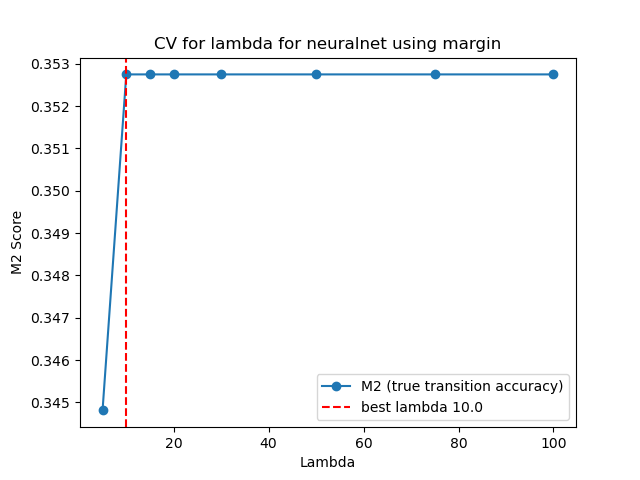
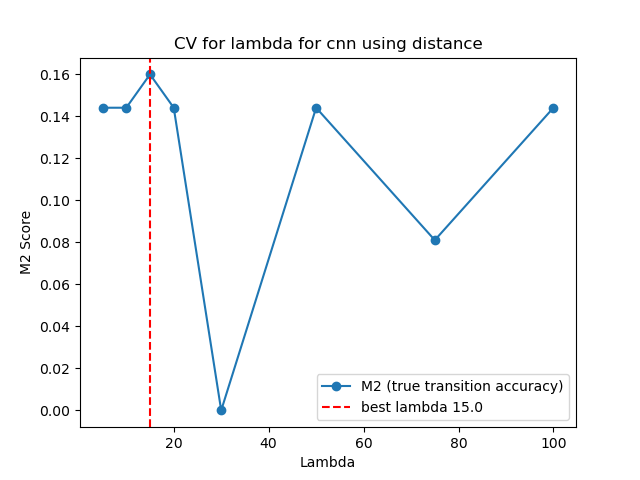
changes to cnn

diff --git a/supervised_learning.py b/supervised_learning.py
@@ -234,7 +234,11 @@ def print_results(preds_train, supervised_df, y_train, preds, y_test, cfg_sup):
 def CV_for_lambda(current_regime, X, y, model_type):
     n = len(X)
     cutoff = n // 2
-    X = X.iloc[:cutoff]
+    if model_type == "cnn":
+        X = X[:cutoff]
+    else:
+        X = X.iloc[:cutoff]
+        
     y = y.iloc[:cutoff]
     current_regime = current_regime.iloc[:cutoff]
 
@@ -245,10 +249,14 @@ def CV_for_lambda(current_regime, X, y, model_type):
 
     
     for fold, (taidx, teidx) in enumerate(function_split.split(X)):
-        X_data_cur, scaler = standardize_data(X.iloc[taidx])
-        X_train_np = X_data_cur.to_numpy(dtype = np.float64)
-        X_test = scaler.transform(X.iloc[teidx])
-        X_test_np = X_test.astype(dtype = np.float64)
+        if model_type == "cnn":
+            X_train_np = X[taidx]
+            X_test_np = X[teidx]
+        else:
+            X_data_cur, scaler = standardize_data(X.iloc[taidx])
+            X_train_np = X_data_cur.to_numpy(dtype = np.float64)
+            X_test = scaler.transform(X.iloc[teidx])
+            X_test_np = X_test.astype(dtype = np.float64)
         
         current_regime_fold = current_regime.iloc[taidx]
         current_regime_test = current_regime.iloc[teidx]
@@ -271,7 +279,14 @@ def CV_for_lambda(current_regime, X, y, model_type):
                 x_shape = X_train_np.shape[1]
                 clf = Neural_Networks(torch.as_tensor(current_regime_fold.to_numpy().copy()), x_shape, cfg.kmeans_k, cfg_sup)
                 clf.setup_nn()
-                clf.fit(X_train_np, y_train_np)        
+                clf.fit(X_train_np, y_train_np)     
+            elif model_type == "cnn":
+                dim_in = X_train_np.shape[2]
+                window_size = X_train_np.shape[1]
+                input_met = torch.as_tensor(current_regime_fold.to_numpy().copy())
+                clf = convolutionNN(input_met, dim_in, window_size, cfg.kmeans_k, cfg_sup)
+                clf.setup_cnn()
+                clf.fit(X_train_np, y_train_np)
 
             predicted_values = clf.predict(X_test_np)
 
@@ -328,6 +343,8 @@ def main():
             model_type = "gda"
         elif args.neuralnet:
             model_type = "neuralnet"
+        elif args.cnn:
+            model_type = "cnn"
         CV_for_lambda(current_regime, X, y, model_type)
 
     if cfg_sup.testing_method == "walk_forward":

diff --git a/config.py b/config.py
@@ -46,7 +46,7 @@ class DataConfig:
 @dataclass
 class SupervisedConfig:
     #Data parameters
-    penalty_type : str = "margin" #Type of penalty we will be appending. Leave empty if we dont want to apply penalty
+    penalty_type : str = "" #Type of penalty we will be appending. Leave empty if we dont want to apply penalty
     evaluation_metric : int = 2 #1 or 2 for m1 or m2
     horizon : int = 21
 
@@ -55,7 +55,7 @@ class SupervisedConfig:
     testing_method : str = "walk_forward" # "walk forward" vs "standard"
     folds : int = 3
 
-    lam : float = 10.0
+    lam : float = 15.0
     lam_values : List[float] = None
     margin : float = 0.5
 
@@ -76,7 +76,7 @@ class SupervisedConfig:
     epochs : int = 200
 
     window_size : int = 21     #Length of the window 
-    use_window : bool = False
+    use_window : bool = True
     num_filters : int = 16
     kernel_size : int = 5      #Number of steps to look ahead in the filter
 
